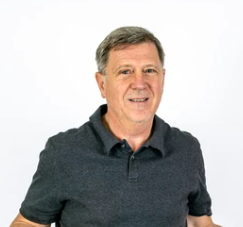
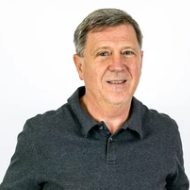
:tada: Trabajo en el Carrusel

diff --git a/index.html b/index.html
@@ -203,18 +203,18 @@
     <div class="row text-center text-white">
       <h1 class="display-3 fwbold">Testimonios</h1>
       <hr style="width: 100px; height: 3px;" class="mx-auto">
-      <p class="lead pt-1">Lorem ipsum, dolor sit amet consectetur adipisicing elit. Nisi, necessitatibus!</p>
+      <p class="lead pt-1">Usuarios que han probado nuestros servicios</p>
     </div>
 
     <!-- CARRUSEL -->
     <div class="row align-items-center">
-      <div id="carouselExampleCaptions" class="carousel slide" data-bs-ride="false">
+      <div id="carouselExampleCaptions" class="carousel slide" data-bs-ride="carousel">
         <div class="carousel-inner">
           <div class="carousel-item active">
 
-            <!-- testimonials card -->
+            <!-- Card testimonios -->
             <div class="testimonials__card">
-              <p class="lh-lg"></p>
+              <p class="lh-lg">
               <i class="fas fa-quote-left"></i>
               Lorem ipsum dolor sit amet, consectetur adipisicing elit. Perferendis reiciendis neque ab quos, eligendi amet quisquam nisi quidem cumque distinctio!
               <i class="fas fa-quote-right"></i>
@@ -225,17 +225,20 @@
                 <i class="fas fa-star"></i>
                 <i class="fas fa-star"></i>
               </div>
+              </p>
             </div>
-            <!-- foto persona -->
-            <div class="testimonials__picture"></div>
-            <img src="/images/fotopersona/persona1.png" alt="picture" class="rounded-circle img-fluid">
-
-            <!-- nombre cliente -->
-            <div class="testimonials__name"></div>
-              <h3>Dora la Exploradora</h3>
-              <p class="fw-light">Vecina Cortijo</p>
+              
+              <!-- foto persona -->
+              <div class="testimonials__picture">
+                <img src="/images/fotopersona/persona1.png" alt="foto clinete" class="rounded-circle img-fluid">
+                <!-- nombre cliente y ubicación -->
+              </div>
+                <div class="testimonials__name "></div>
+                <h3>Dora la Exploradora</h3>
+                <p class="fw-light">Vecina Cortijo</p>
+              </div>
           </div>
-        </div>
+        
 
         <button class="carousel-control-prev" type="button" data-bs-target="#carouselExampleCaptions" data-bs-slide="prev">
           <span class="carousel-control-prev-icon" aria-hidden="true"></span>
@@ -295,7 +298,7 @@
                       </div>
                     </div>
                   </div>
-            </div>
+              </div>
         </div>
     </div>
 </section>

diff --git a/scss/sections/_testimonials.scss b/scss/sections/_testimonials.scss
@@ -1,12 +1,12 @@
 @use '../custom' as *;
 @use '../components/mixins' as *;
 
-.testimonials{
+.testimonials {
     position: relative;
     padding: 0;
     @include gradient;
 
-    &__card{
+    &__card {
         background-color: rgba($white, 0.8);
         padding: 2rem 1.25rem;
         border-radius: 0.625rem;
@@ -18,7 +18,7 @@
             color: rgba($primary, 0.7);
         }
 
-        .ratings{
+        .ratings {
 
             i{
                 color: rgba($primary, 0.7);
@@ -27,11 +27,10 @@
         }
     }
 
-    &__picture{
-       width: 4rem;
-       height: 6rem;
+    &__picture {
+       width: 10rem;
+       height: 10rem;
        position: absolute;
-    //    background-size: cover;
        left: 50%;
        transform: translate(-50%, -50%);
 
@@ -40,7 +39,7 @@
        }
     }
 
-    &__name{
+    &__name {
         padding-top: 3rem;
         margin-bottom: 1rem;
         text-align: center;

diff --git a/assets/css/style.css b/assets/css/style.css
@@ -10967,8 +10967,8 @@ textarea.form-control-lg {
   font-size: 1rem;
 }
 .testimonials__picture {
-  width: 4rem;
-  height: 6rem;
+  width: 10rem;
+  height: 10rem;
   position: absolute;
   left: 50%;
   transform: translate(-50%, -50%);
